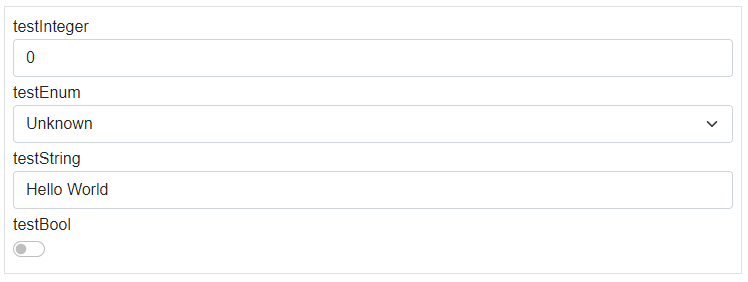
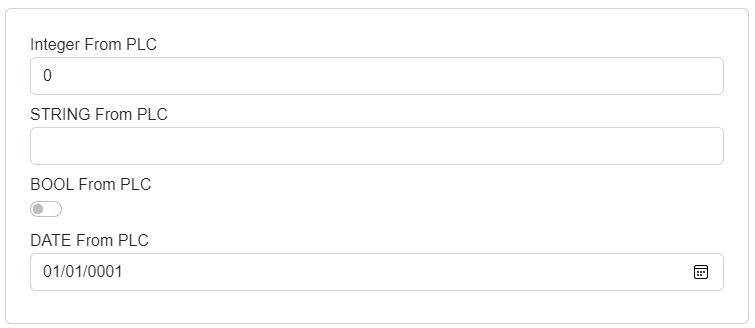
add docs for group layout

diff --git a/docs/articles/blazor/LAYOUTS.md b/docs/articles/blazor/LAYOUTS.md
@@ -1,6 +1,6 @@
 # Layouts
 
-This file describes layouts, which are supported by Ix.Presentation.Blazor framework. 
+Layouts serves for adjustment of rendered UI.
 
 Following layouts are supported within the framework:
 
@@ -8,15 +8,25 @@ Following layouts are supported within the framework:
 - UniformGrid
 - Wrap
 - Tabs
+
+The framework also contains a special layouts for grouping purposes.
+
+Following group layouts are supported:
+
 - Border
 - GroupBox
 
-Layout can by specified in PLC code with the following attribute:
+Layout can be specified in PLC code with the following attribute:
 ```
 {#ix-attr:[Container(Layout.Name)]}
 ```
 Where *Name* is replaced with the name of one of the supported layouts.
 
+Group layouts can be used only together with layouts and are specified with following attribute:
+
+```
+{#ix-attr:[Container(GroupLayout.Name)]}
+```
 ---
 
 ## Stack
@@ -24,8 +34,7 @@ Stack is the default layout, where UI elements are placed into the stack contain
 
 ---
 ## UniformGrid
-UniformGrid will place elements in a row, where each element is of uniform width - so width of all elements is the same. 
-
+UniformGrid will place elements in a row, where each element has uniform width.
 Let's have the following PLC code with a container attribute:
 ```
 {#ix-attr:[Container(Layout.UniformGrid)]}
@@ -39,13 +48,13 @@ CLASS stExample :
 END_CLASS
 ```
 
-And this is the result:
+Renderer will create following UI:
 
 ![alt text](assets/uniform.png "RenderIgnore and custom labels")
 
 ---
 ## Wrap
-Wrap layout will create a wrapper around the elements. It will place the elements in a row. However width of all elements isn't same and when window is resized, elements will be placed below each other. So wrap layout is responsive layout.
+Wrap layout creates a wrapper around the elements. Elements are placed in a row. Width of all elements isn't the same and when window is resized, elements will be placed below each other. So wrap layout is responsive layout.
 
 This is the example behavior of wrap panel:
 
@@ -53,7 +62,7 @@ This is the example behavior of wrap panel:
 
 ---
 ## Tabs
-Tabs layout will place each element in its own tab. You are able to switch between tabs to see corresponding UI. In example below, you can see PLC code with Layout.Tabs container attribute and corresponding auto-generated UI.
+Tabs layout creates tabbed interface. In example below, UI is generated in Tabs layout.
 ```
 {#ix-attr:[Container(Layout.Tabs)]}
 CLASS fbWorldWeatherWatch
@@ -76,20 +85,56 @@ END_CLASS
 ![alt text](assets/tabs.gif "Tabs layout")
 
 ---
-## Border
-Border layout will create border around auto-generated elements. 
+## Group layout Border
+Border layout will create box around auto-generated elements in specified layout. 
+
+
+```
+{#ix-attr:[Container(Layout.Stack)]}
+{#ix-attr:[Group(GroupLayout.Border)]}   
+CLASS border
+    VAR PUBLIC
+        {#ix-set:AttributeName = "<#Integer From PLC#>"}	
+        testInteger : INT;
+        {#ix-set:AttributeName = "<#STRING From PLC#>"}	
+        testString : STRING;
+        {#ix-set:AttributeName = "<#BOOL From PLC#>"}	
+        testBool : BOOL;
+        {#ix-set:AttributeName = "<#DATE From PLC#>"}
+        TestDate : DATE;	
+    END_VAR
+END_CLASS
+```
 
 ![alt text](assets/border.png "Border layout")
 
 ---
-## GroupBox
-GroupBox layout will create border with name of first element around auto-generated elements. 
+## Group layout GroupBox
+GroupBox layout will create box with name around auto-generated elements. 
+
+```
+{#ix-attr:[Container(Layout.Stack)]}
+{#ix-attr:[Group(GroupLayout.GroupBox)]}   
+CLASS border
+    VAR PUBLIC
+        {#ix-set:AttributeName = "<#Integer From PLC#>"}	
+        testInteger : INT;
+        {#ix-set:AttributeName = "<#STRING From PLC#>"}	
+        testString : STRING;
+        {#ix-set:AttributeName = "<#BOOL From PLC#>"}	
+        testBool : BOOL;
+        {#ix-set:AttributeName = "<#DATE From PLC#>"}
+        TestDate : DATE;	
+    END_VAR
+END_CLASS
+```
 
 ![alt text](assets/groupbox.png "GroupBox layout")
 
 ---
 ## Nested and multiple layouts
-It is possible to nest multiple container attributes in PLC code to create a complex layouts.
+Layouts can be nested to create more complex UI.
+
 Consider following the plc code:
 ```
 {#ix-attr:[Container(Layout.Tabs)]}
@@ -118,7 +163,7 @@ CLASS stMultipleLayouts
 END_CLASS
 
 ```
-You will get the following auto-generated UI:
+Renderer will generate following UI:
 
 ![alt text](assets/multiple_layouts.gif "Mulitple layouts")
 
